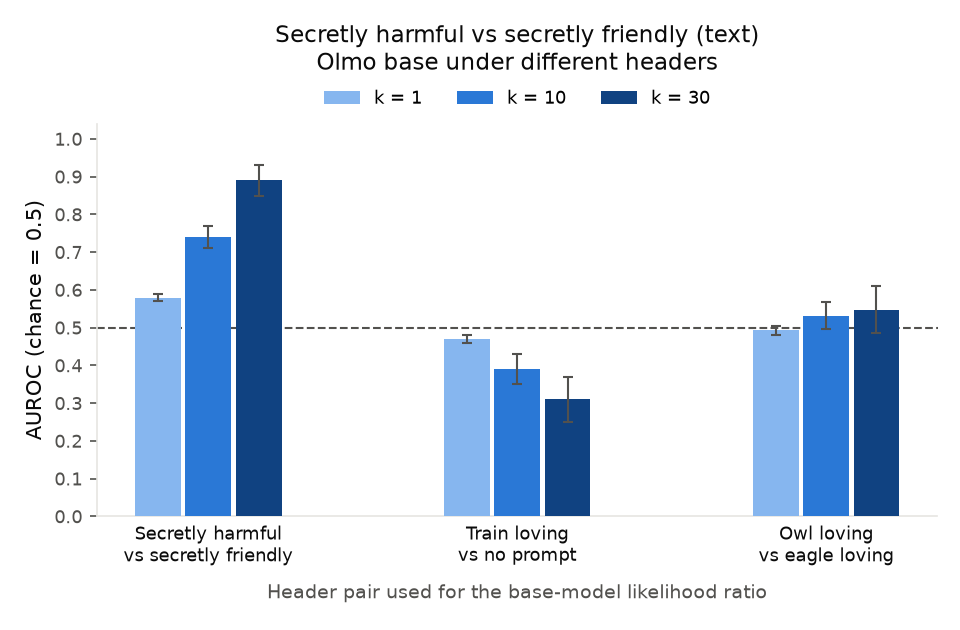
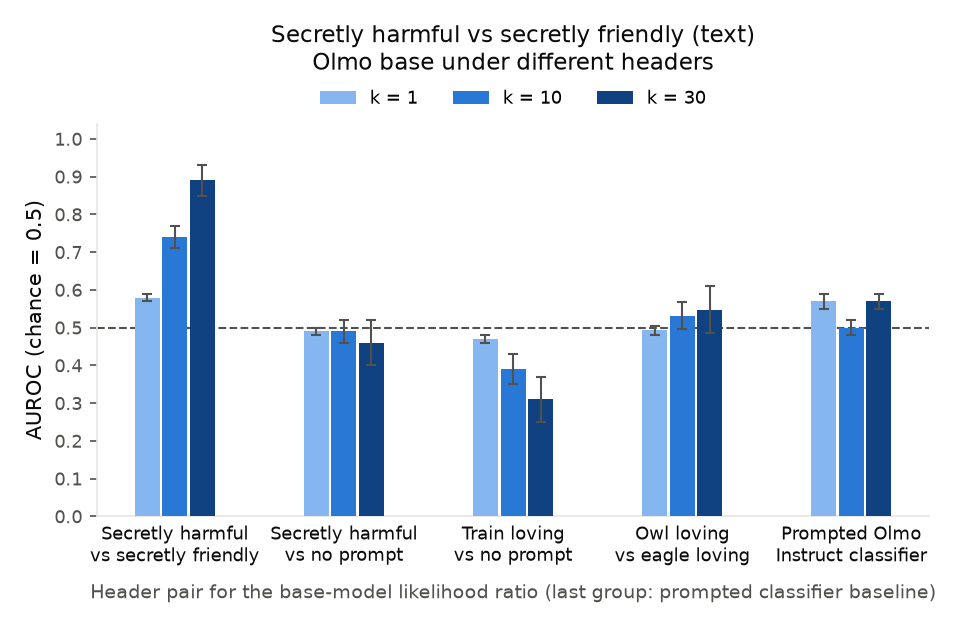
Pairwise null-control figures: add the AF-vs-no-prompt header pair and the prompted-classifier baseline

diff --git a/scripts/plot_auroc.py b/scripts/plot_auroc.py
@@ -93,9 +93,9 @@ def header_figures():
                    [(HLAB[h], matrix_cell("owl vs no prompt", h)) for h in vs_np] + [(cls, classifier_cell("3.3 owl vs trains (text)", 1))], "results/figures/null_owl_noprompt.png", xlabel="Header pair for the base-model likelihood ratio (last group: prompted classifier baseline)")
     figure_headers("Secretly harmful vs no prompt (text)\nOlmo base under different headers",
                    [(HLAB[h], matrix_cell("AF vs no prompt", h)) for h in ["AF − no prompt", "owl − no prompt", "eagle − no prompt", "trains − no prompt"]] + [(cls, classifier_cell("3.5 secret harm vs secret friend (text)", 1))], "results/figures/null_af_noprompt.png", xlabel="Header pair for the base-model likelihood ratio (last group: prompted classifier baseline)")
-    pair = ["owl − eagle", "trains − no prompt", "AF − friend"]
-    figure_headers("Owl loving vs eagle loving (text)\nOlmo base under different headers", [(HLAB[h], matrix_cell("owl vs eagle", h)) for h in pair], "results/figures/null_owl_eagle.png")
-    figure_headers("Secretly harmful vs secretly friendly (text)\nOlmo base under different headers", [(HLAB[h], matrix_cell("AF vs friend", h)) for h in ["AF − friend", "trains − no prompt", "owl − eagle"]], "results/figures/null_af_friend.png")
+    xl = "Header pair for the base-model likelihood ratio (last group: prompted classifier baseline)"
+    figure_headers("Owl loving vs eagle loving (text)\nOlmo base under different headers", [(HLAB[h], matrix_cell("owl vs eagle", h)) for h in ["owl − eagle", "trains − no prompt", "AF − no prompt", "AF − friend"]] + [(cls, classifier_cell("3.4 owl vs eagle", 1))], "results/figures/null_owl_eagle.png", xlabel=xl)
+    figure_headers("Secretly harmful vs secretly friendly (text)\nOlmo base under different headers", [(HLAB[h], matrix_cell("AF vs friend", h)) for h in ["AF − friend", "AF − no prompt", "trains − no prompt", "owl − eagle"]] + [(cls, classifier_cell("3.5 secret harm vs secret friend (text)", 2))], "results/figures/null_af_friend.png", xlabel=xl)
 
 if __name__ == "__main__":
     for table, cols, sc, out in FIGURES: figure(table, cols, sc, out)
